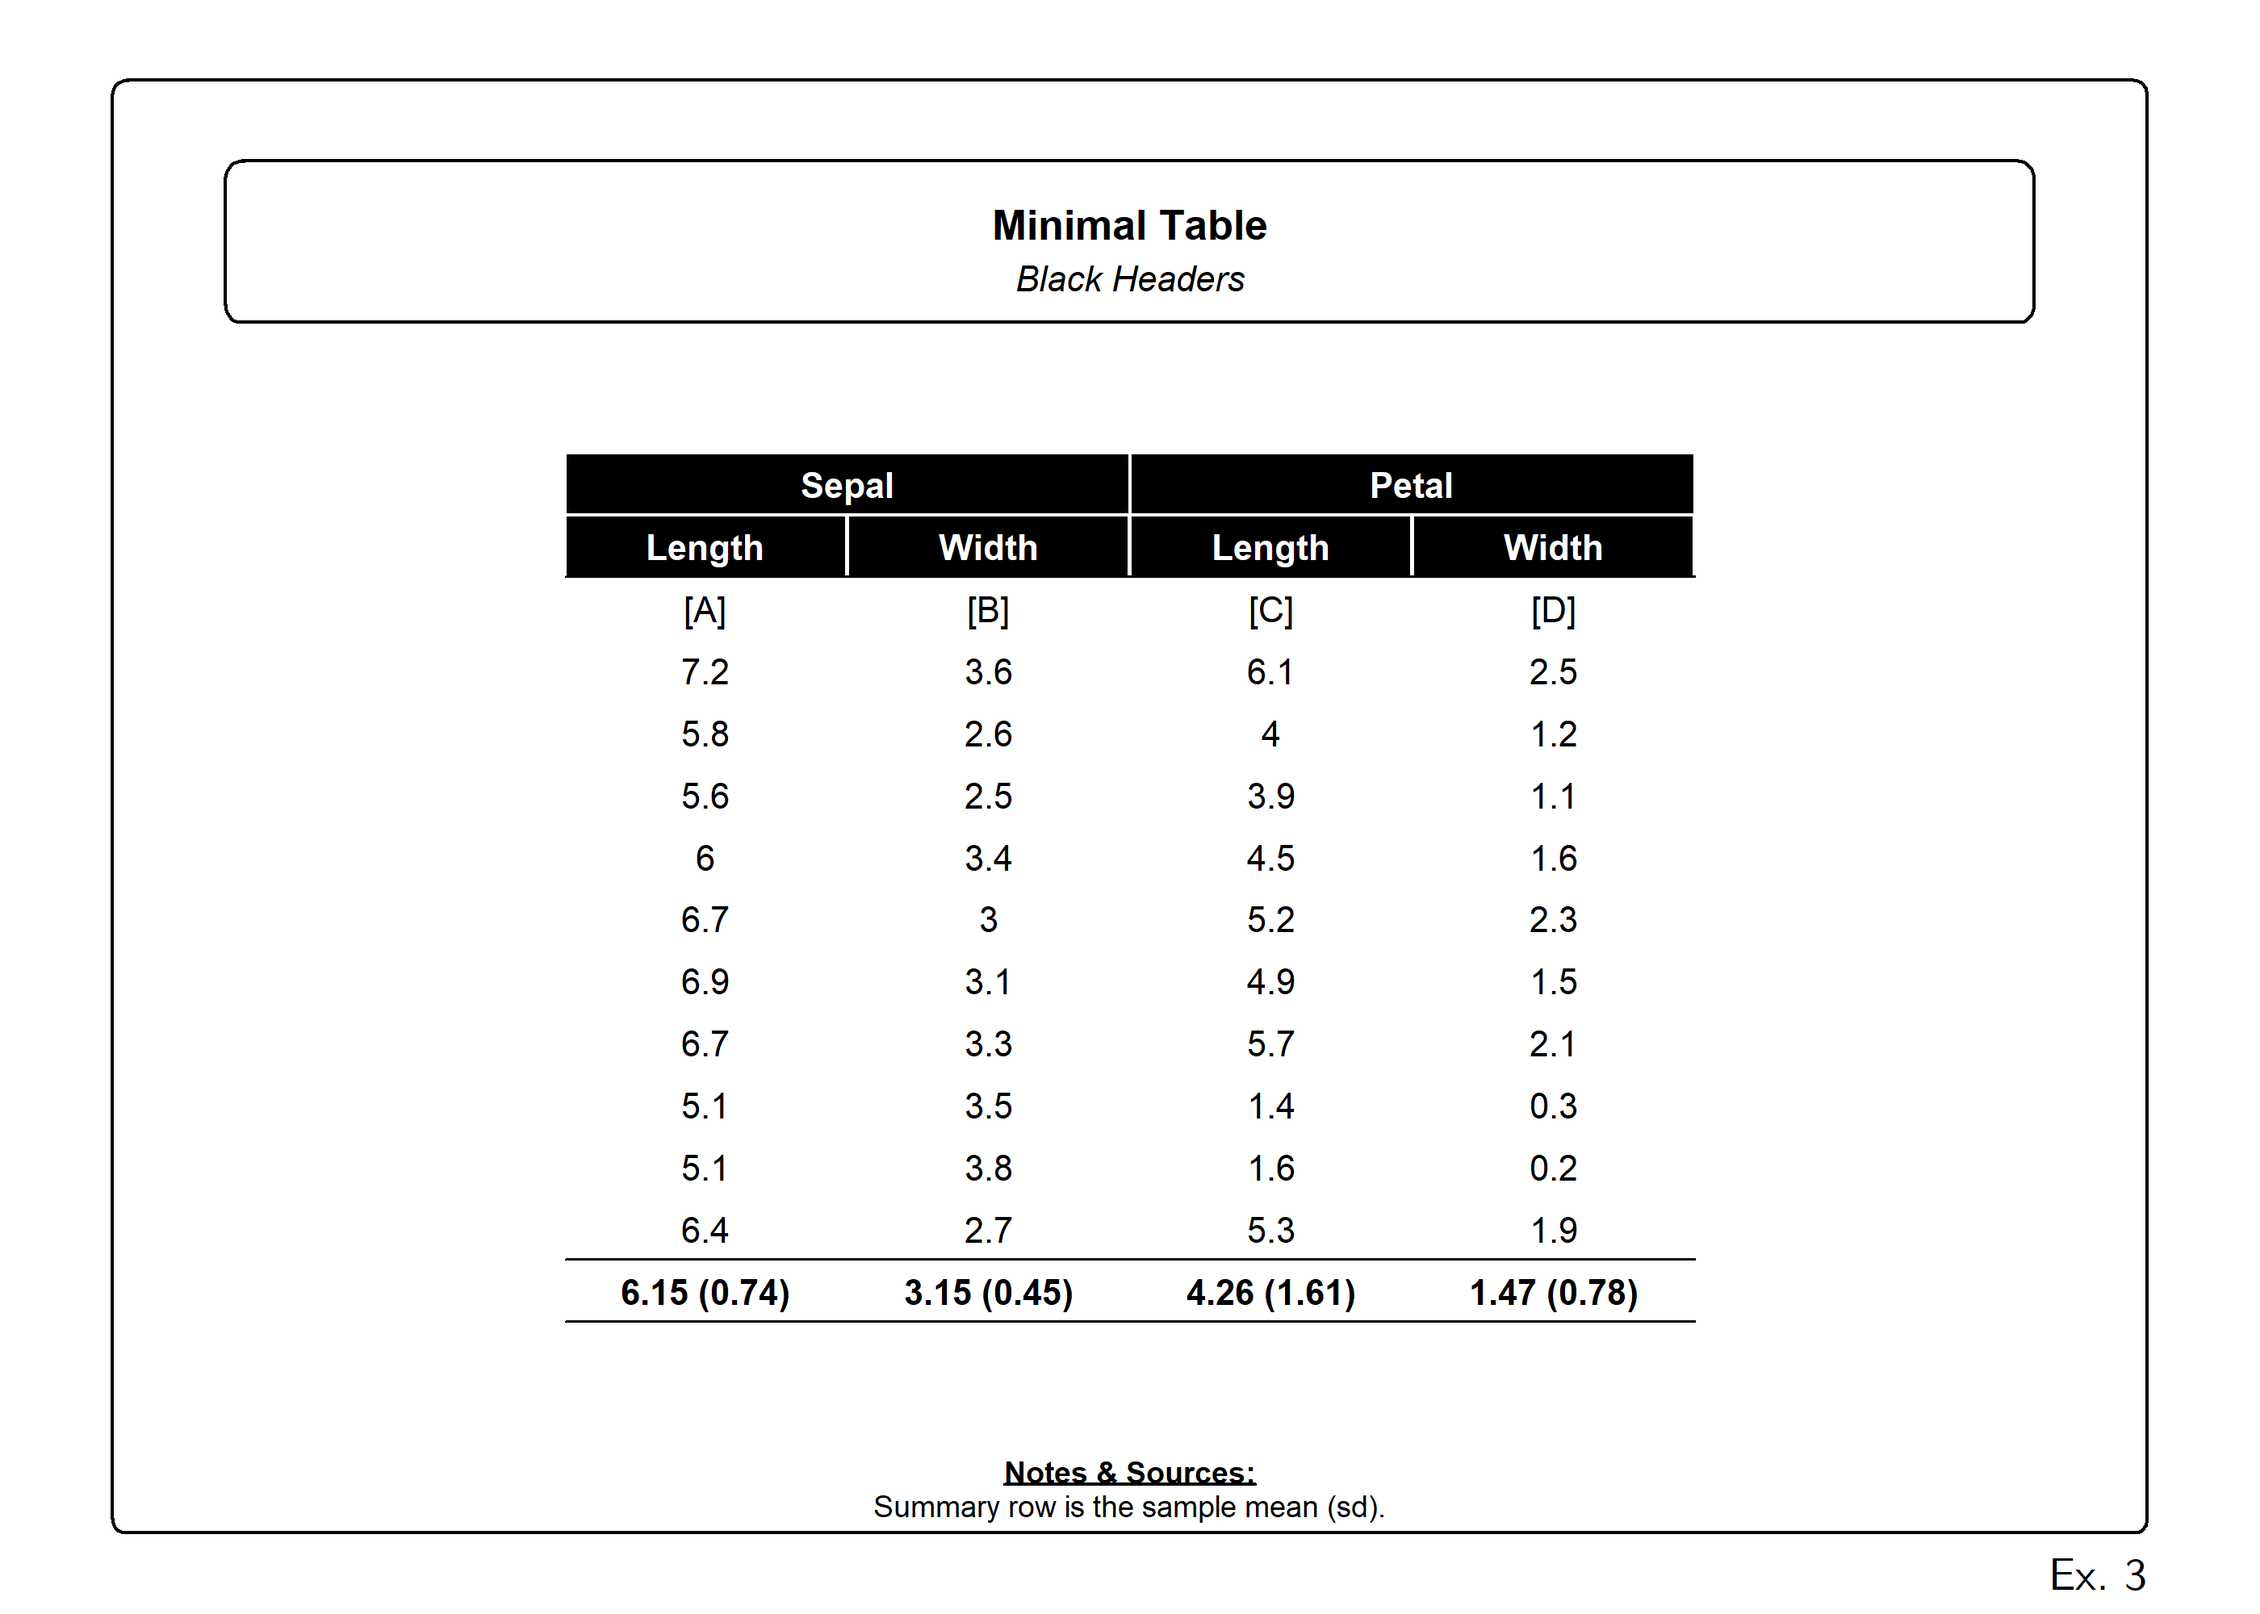
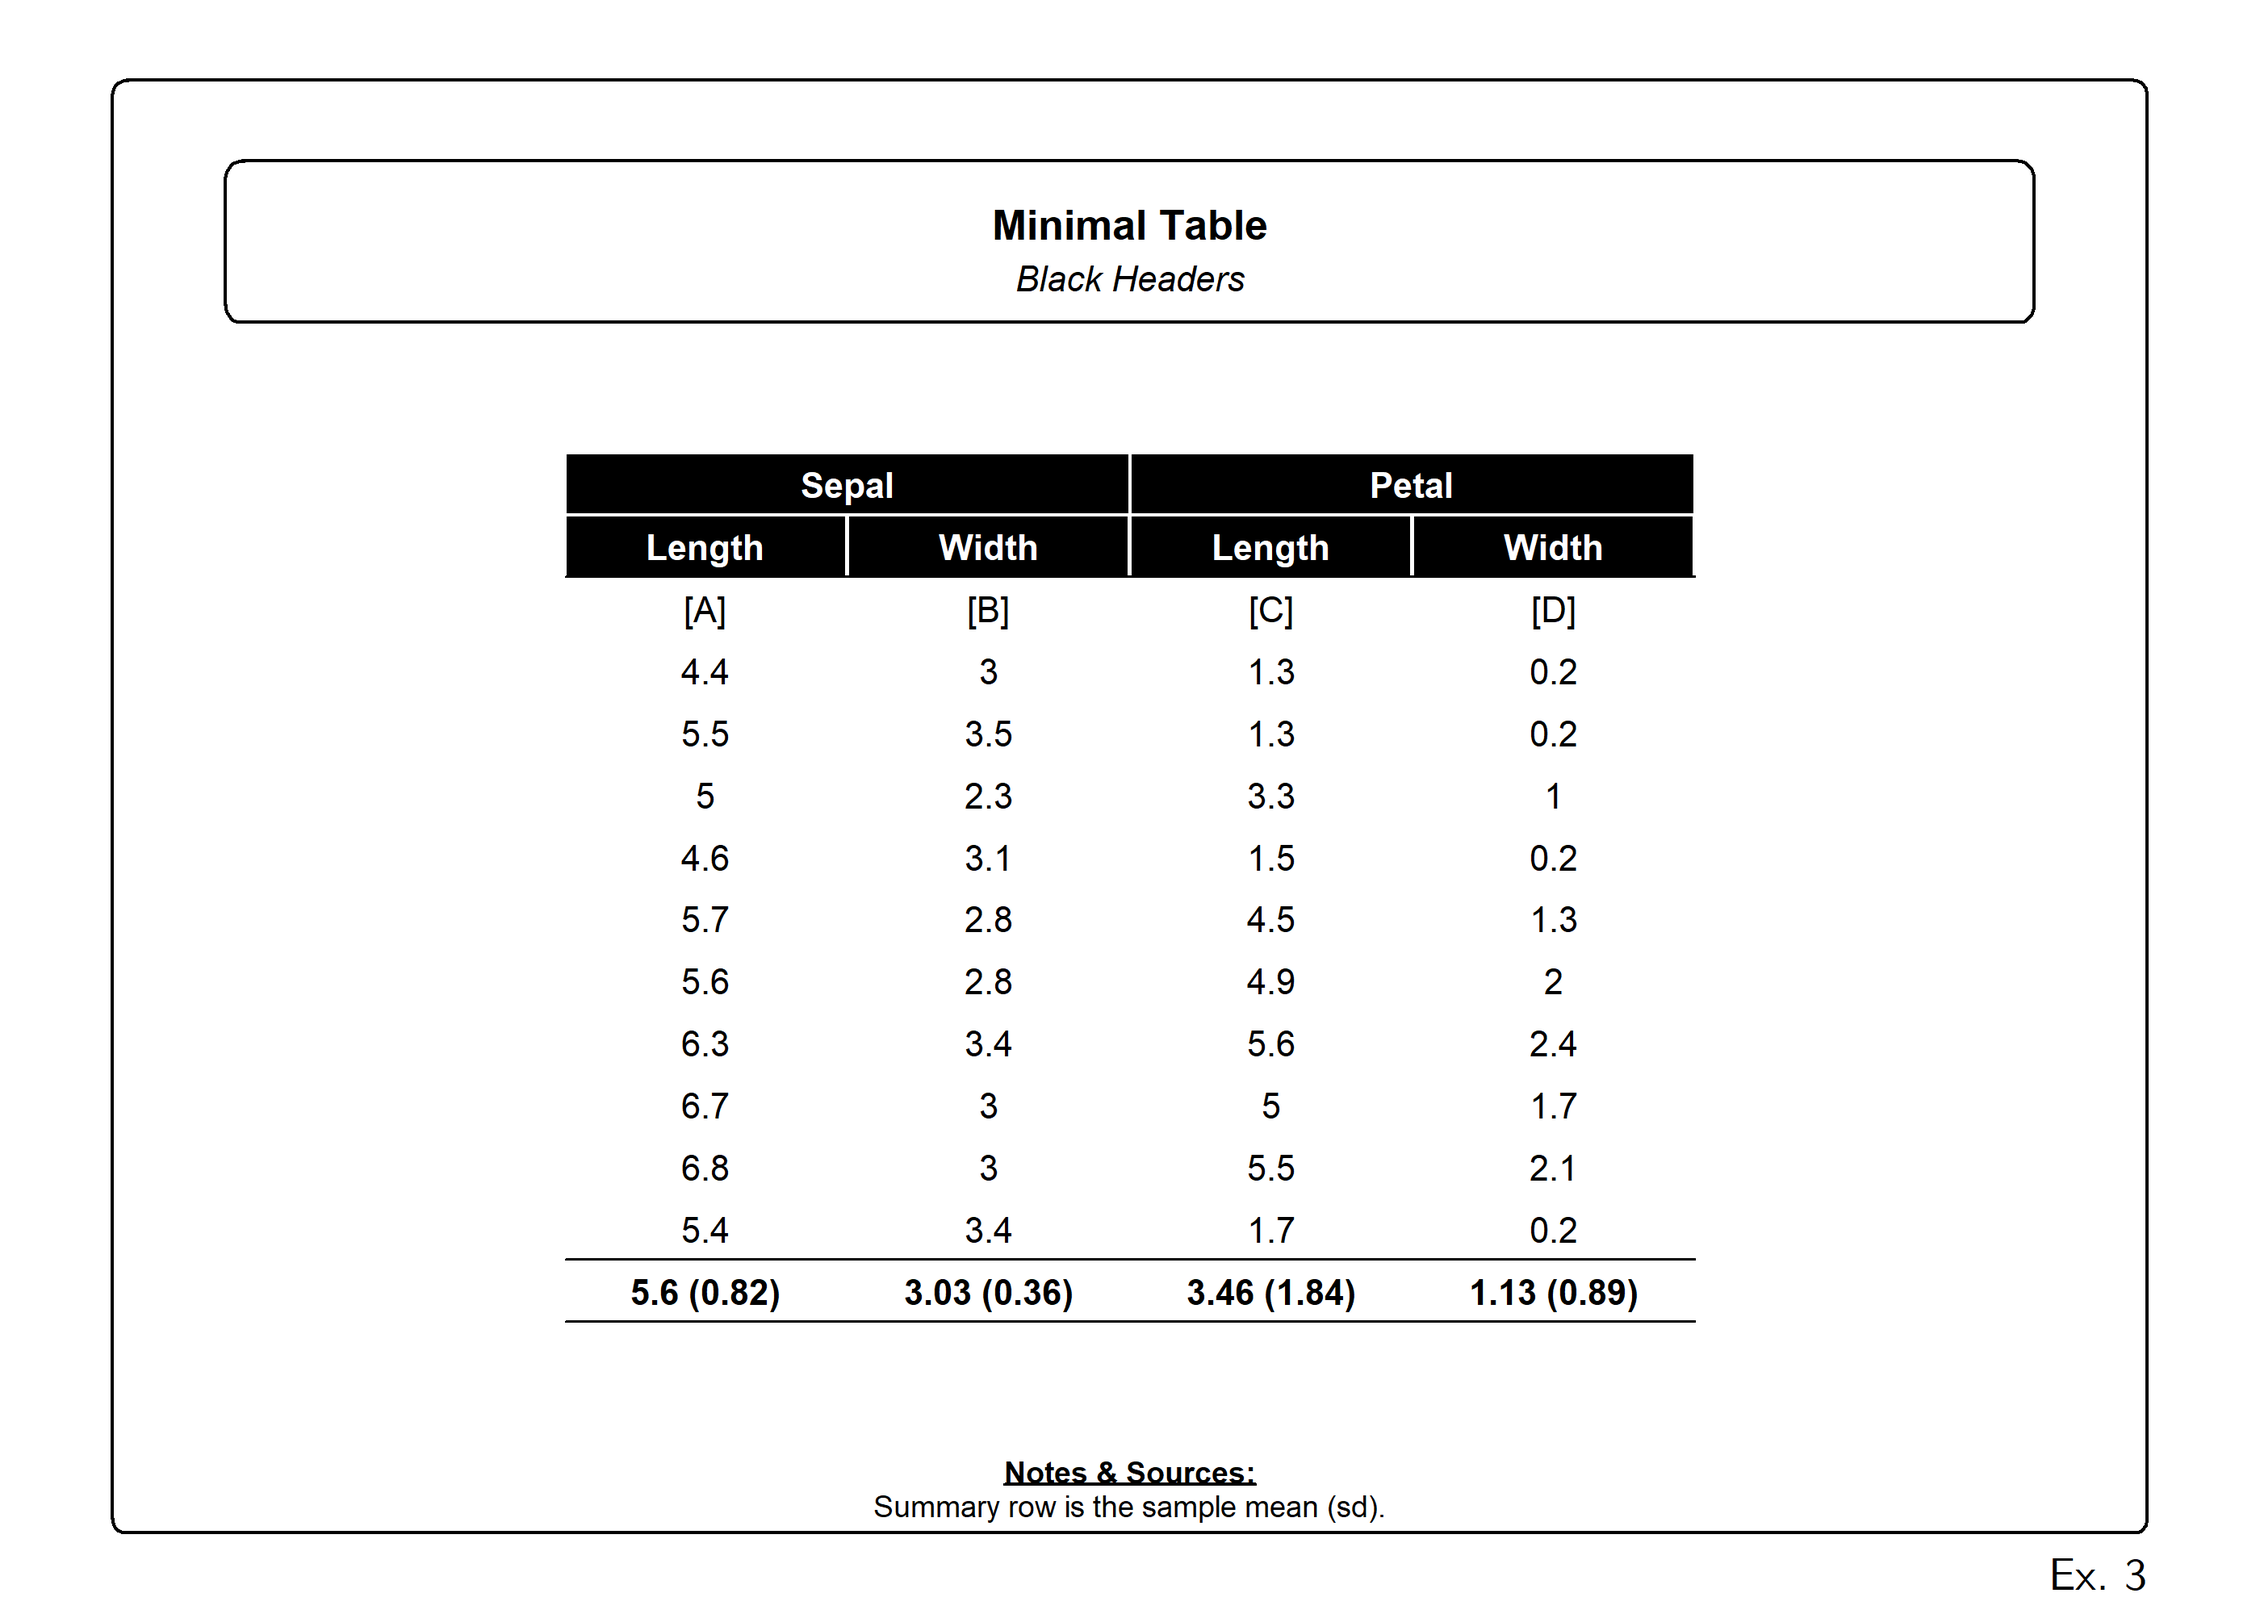
readme

diff --git a/README.md b/README.md
@@ -7,7 +7,8 @@
 
 <!-- badges: end -->
 
-The goal of grid.table.minimal is to …
+The goal of grid.table.minimal is to quickly format grid graphics based
+tables and plots.
 
 ## Installation
 
@@ -19,9 +20,7 @@ You can install the development version of grid.table.minimal from
 pak::pak("DannyMRoss/grid.table.minimal")
 ```
 
-## Example
-
-This is a basic example which shows you how to solve a common problem:
+## Examples
 
 ``` r
 library(grid.table.minimal)
@@ -46,19 +45,19 @@ DT <- rbind(DT,
             DT[, lapply(.SD, function(x) paste0(mean(x), " (",round(sd(x),2),")"))])
 setnames(DT, rep(c("Length","Width"),2))
 print(DT)
-#>          Length       Width      Length       Width
-#>          <char>      <char>      <char>      <char>
-#>  1:         7.2         3.6         6.1         2.5
-#>  2:         5.8         2.6           4         1.2
-#>  3:         5.6         2.5         3.9         1.1
-#>  4:           6         3.4         4.5         1.6
-#>  5:         6.7           3         5.2         2.3
-#>  6:         6.9         3.1         4.9         1.5
-#>  7:         6.7         3.3         5.7         2.1
-#>  8:         5.1         3.5         1.4         0.3
-#>  9:         5.1         3.8         1.6         0.2
-#> 10:         6.4         2.7         5.3         1.9
-#> 11: 6.15 (0.74) 3.15 (0.45) 4.26 (1.61) 1.47 (0.78)
+#>         Length       Width      Length       Width
+#>         <char>      <char>      <char>      <char>
+#>  1:        4.4           3         1.3         0.2
+#>  2:        5.5         3.5         1.3         0.2
+#>  3:          5         2.3         3.3           1
+#>  4:        4.6         3.1         1.5         0.2
+#>  5:        5.7         2.8         4.5         1.3
+#>  6:        5.6         2.8         4.9           2
+#>  7:        6.3         3.4         5.6         2.4
+#>  8:        6.7           3           5         1.7
+#>  9:        6.8           3         5.5         2.1
+#> 10:        5.4         3.4         1.7         0.2
+#> 11: 5.6 (0.82) 3.03 (0.36) 3.46 (1.84) 1.13 (0.89)
 ```
 
 ## Example 1
